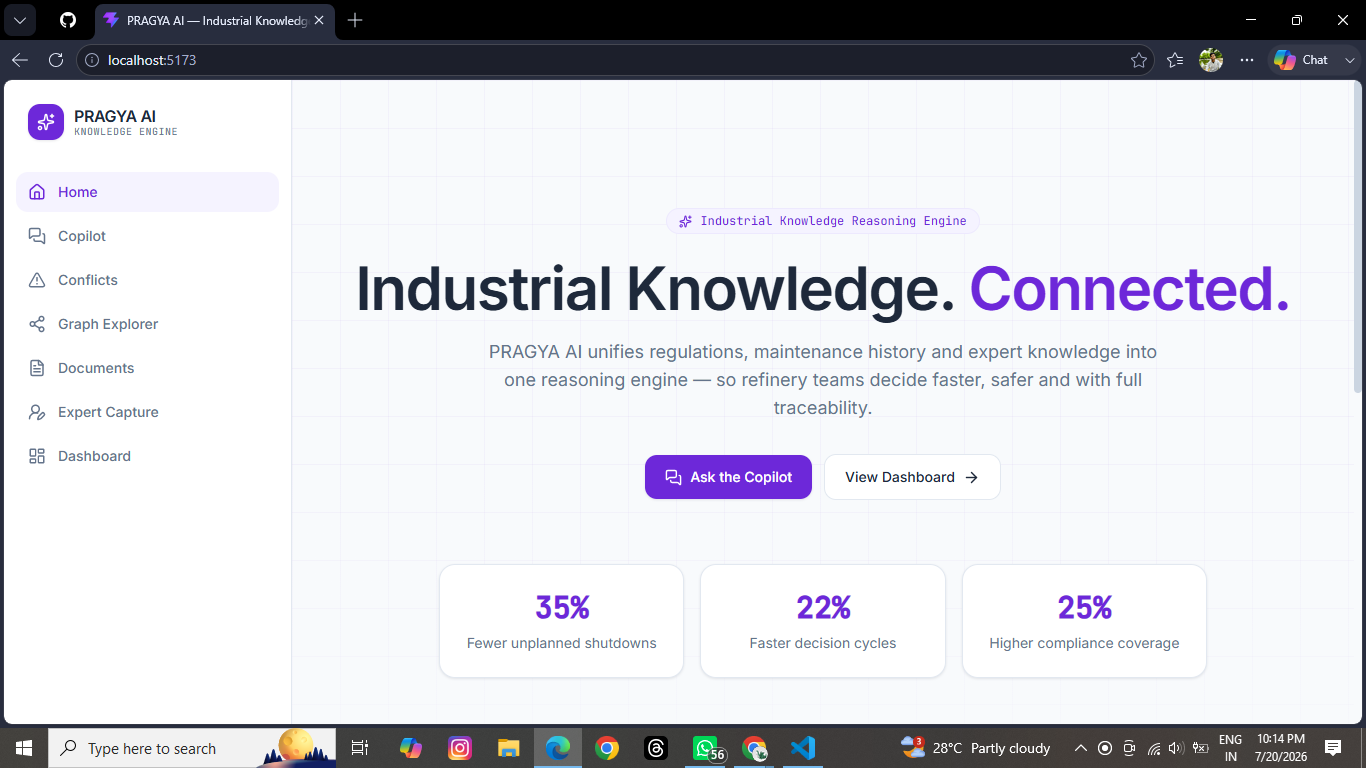
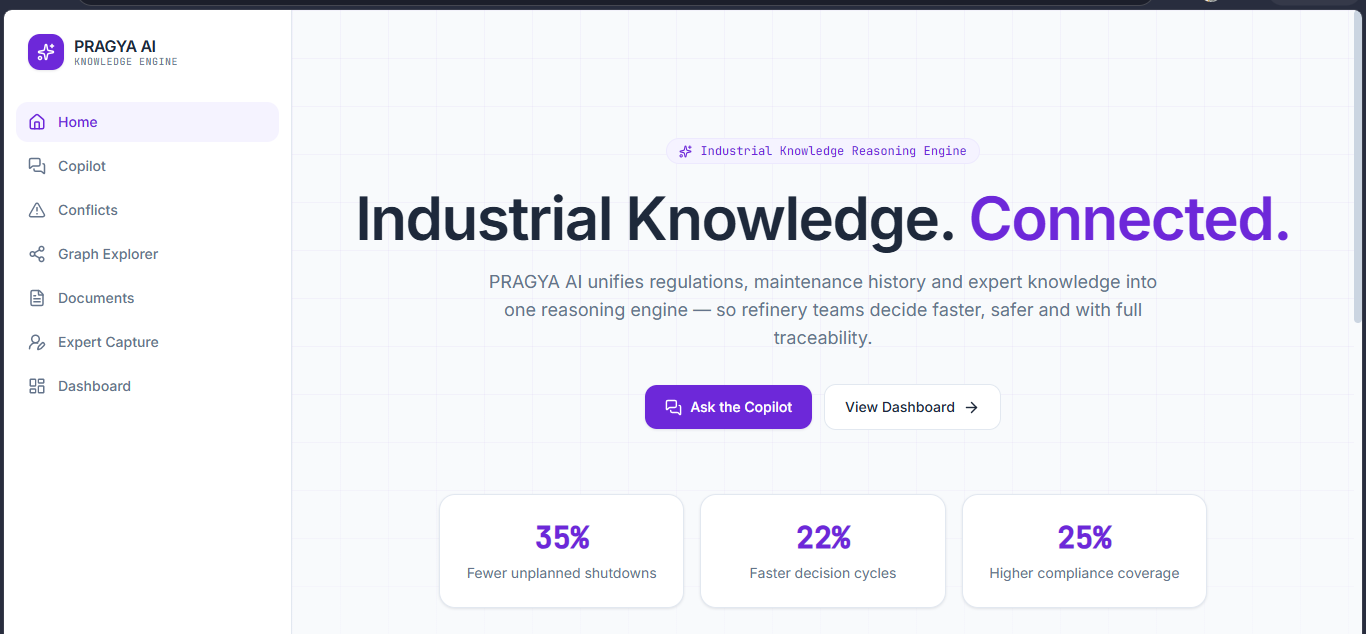
added new project

diff --git a/src/data/projects.ts b/src/data/projects.ts
@@ -39,7 +39,7 @@ export const PROJECTS: Project[] = [
   live: 'https://youtu.be/-P0H1Lew7Vg',
   github: 'https://github.com/vanshbhutani1405/PRAGYA-AI',
   image: pragyaImg,
-}
+},
   {
     number: '02',
     category: 'Healthcare AI',